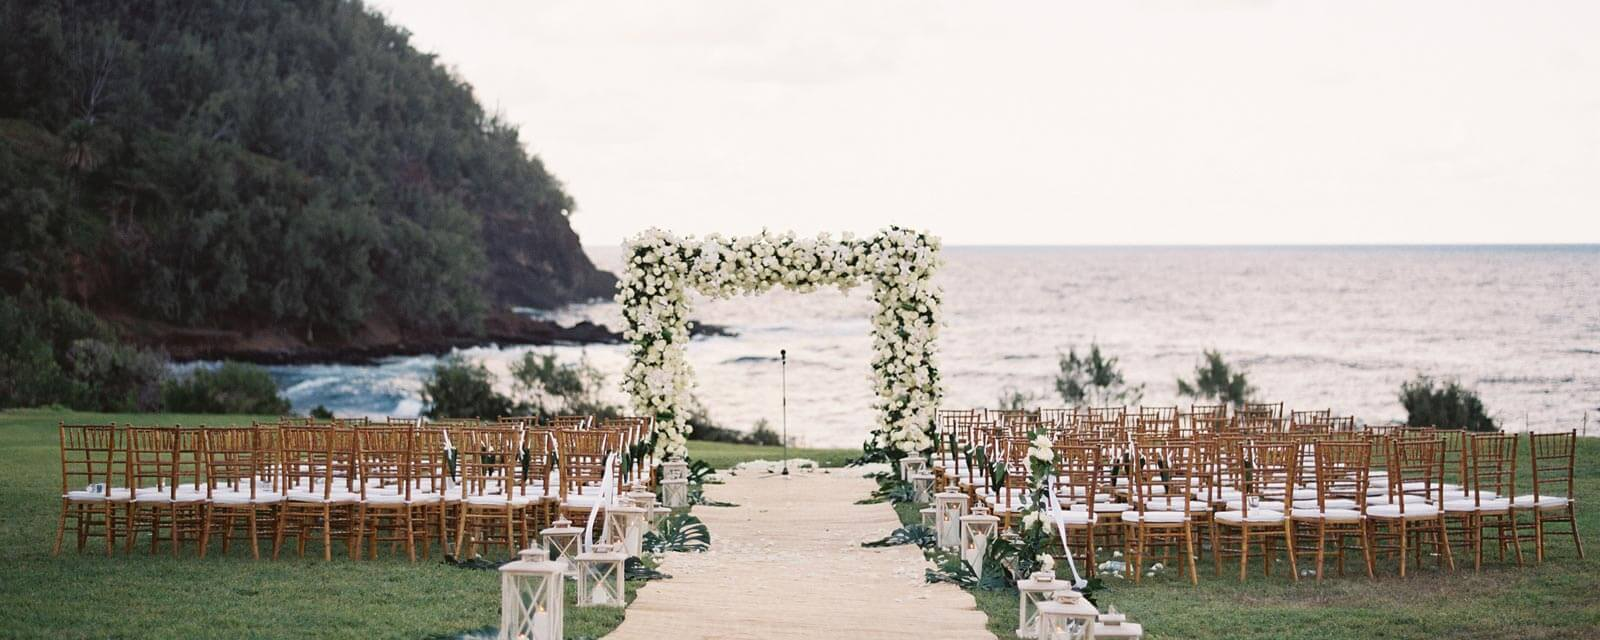
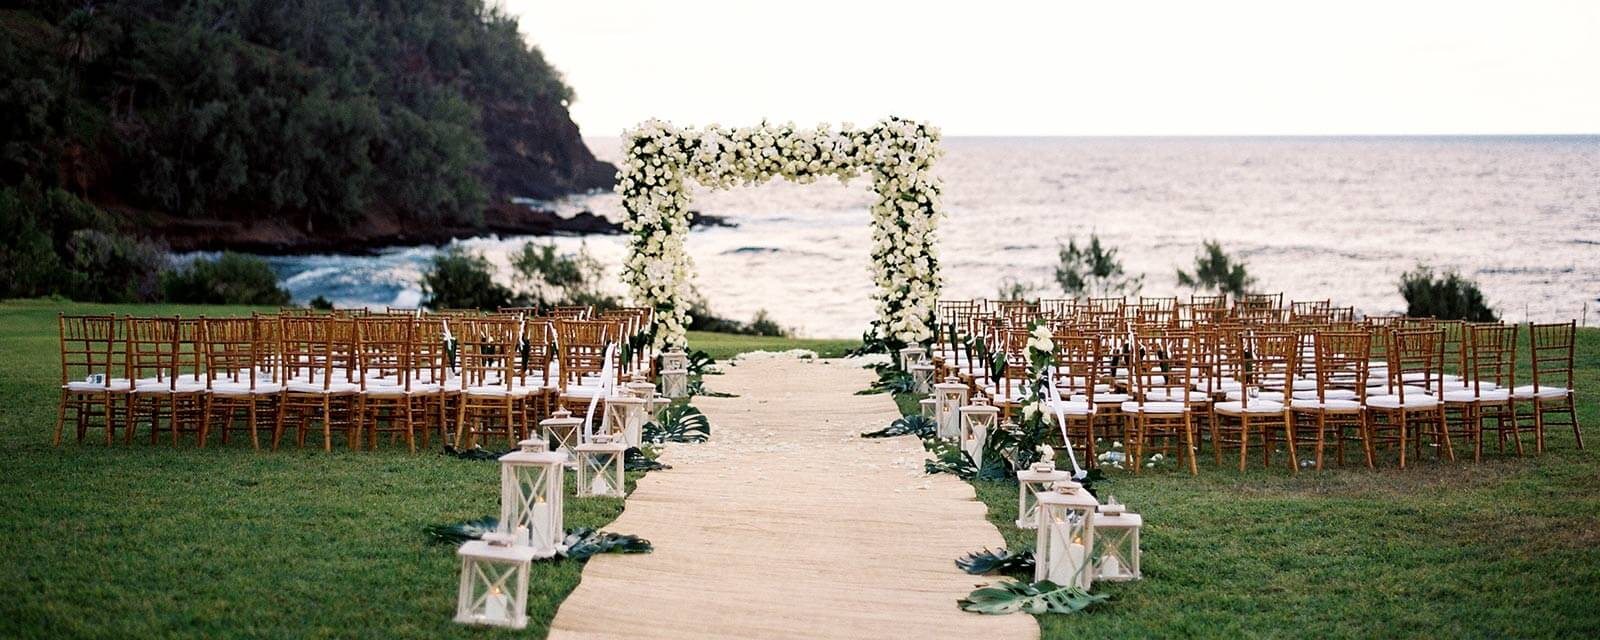
weddings changes

diff --git a/hana/weddings/index.php b/hana/weddings/index.php
@@ -34,9 +34,10 @@ j=d.createElement(s),dl=l!='dataLayer'?'&l='+l:'';j.async=true;j.src=
       <!--<div class="slide"><img data-original="/assets/images/placeholder_food_A1.jpg" src="/assets/images/global/placeholder.gif" alt=""><div class="overlay-content-new"><h2>DISH NAME GOES HERE / <span>SHORT DESCRIPTION HERE PLEFF LOREM IPSUM DOLOR SIT AMET</span></h2></div></div>
       <div class="slide"><img data-original="/assets/images/placeholder_food_A2.jpg" src="/assets/images/global/placeholder.gif" alt=""><div class="overlay-content-new"><h2>DISH NAME GOES HERE / <span>SHORT DESCRIPTION HERE PLEFF LOREM IPSUM DOLOR SIT AMET</span></h2></div></div>//-->
       <!--<div class="slide"><img data-original="/assets/images/feature_hana_1600x640_dining2.jpg" src="/assets/images/global/placeholder.gif" alt="The Preserve Kitchen + Bar at Travaasa Hana, Dining in Hana, Authentic Hawaiian Food"></div>-->
-      <div class="slide"><img data-original="http://static.travaasa.com/assets/images/feature_hana_weddings_1600x640_01_bluff.jpg" src="/assets/images/global/placeholder.gif" alt="The Ocean Bluff"><div class="overlay-content-new"><h2>The Ocean Bluff / <span>Ceremony</span></h2></div></div>
+      <div class="slide"><img data-original="http://static.travaasa.com/assets/images/feature_hana_weddings_1600x640_01_bluff.jpg" src="/assets/images/global/placeholder.gif" alt="The Ocean Bluff"><div class="overlay-content-new"><h2>The Ocean Lawn / <span>Ceremony</span></h2></div></div>
       <div class="slide"><img data-original="http://static.travaasa.com/assets/images/feature_hana_weddings_1600x640_03_reception.jpg" src="/assets/images/global/placeholder.gif" alt="Reception at The Preserve"><div class="overlay-content-new"><h2>The Preserve Kitchen + Bar / <span>Reception</span></h2></div></div>
-      <div class="slide"><img data-original="http://static.travaasa.com/assets/images/feature_hana_weddings_1600x640_04_tent.jpg" src="/assets/images/global/placeholder.gif" alt="Plantation Guest House Reception"><div class="overlay-content-new"><h2>Plantation Guest House / <span>Reception</span></h2></div></div>
+      <div class="slide"><img data-original="http://static.travaasa.com/assets/images/feature_hana_weddings_1600x640_02_hands.jpg" src="/assets/images/global/placeholder.gif" alt="Ceremony at Travaasa"><div class="overlay-content-new"><!--<h2>The Ocean Lawn / <span>Ceremony</span></h2>--></div></div>
+      <!--<div class="slide"><img data-original="http://static.travaasa.com/assets/images/feature_hana_weddings_1600x640_04_tent.jpg" src="/assets/images/global/placeholder.gif" alt="Plantation Guest House Reception"><div class="overlay-content-new"><h2>Plantation Guest House / <span>Reception</span></h2></div></div>-->
     </div>
     <a class="carousel_prev" id="feature1_prev" href="#"><span><b>prev</b></span></a>
     <a class="carousel_next" id="feature1_next" href="#"><span><b>next</b></span></a>
@@ -53,7 +54,7 @@ j=d.createElement(s),dl=l!='dataLayer'?'&l='+l:'';j.async=true;j.src=
           Heavenly Hāna is the perfect location for your Island wedding dreams to come true.</p>
           <!--<a href="###"><img class="###" title="Travaasa Hana Wedding Guide" src="###"></a>-->
           <iframe src="https://player.vimeo.com/video/47562264?color=c76f74&title=0&byline=0&portrait=0" width="500" height="281" frameborder="0" webkitallowfullscreen mozallowfullscreen allowfullscreen></iframe>
-          <a href="http://travaasa.com/pdf/Travaasa-Hana-Wedding-Guide.pdf" target="_blank"><img title="Travaasa Hana Wedding Guide" style="float:left; padding: 0 15px 15px 0;" class="videobox"  width="200" height="259" src="http://travaasa.com/assets/images/hana-wedding-guide-thumb.jpg"></a>
+          <a href="http://travaasa.com/pdf/Travaasa-Hana-Wedding-Guide.pdf" target="_blank"><img title="Travaasa Hana Wedding Guide" style="float:left; padding: 0 15px 15px 0;" class="videobox"  width="200" height="259" src="http://static.travaasa.com/assets/images/hana-wedding-guide-thumb.jpg"></a>
 
       </div>
   </section>
